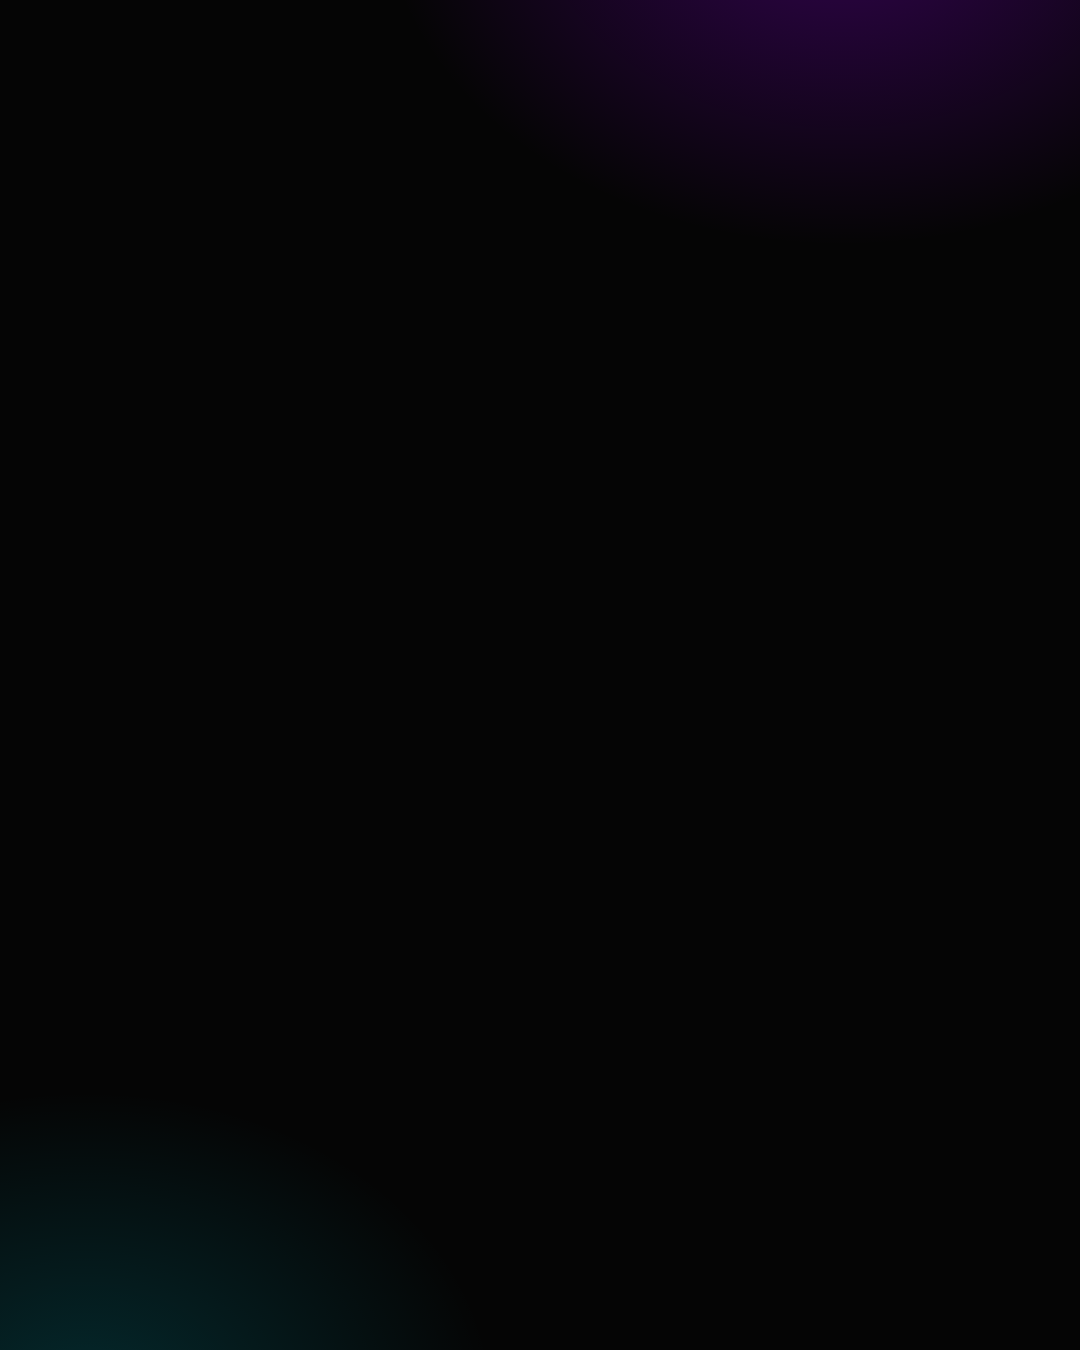
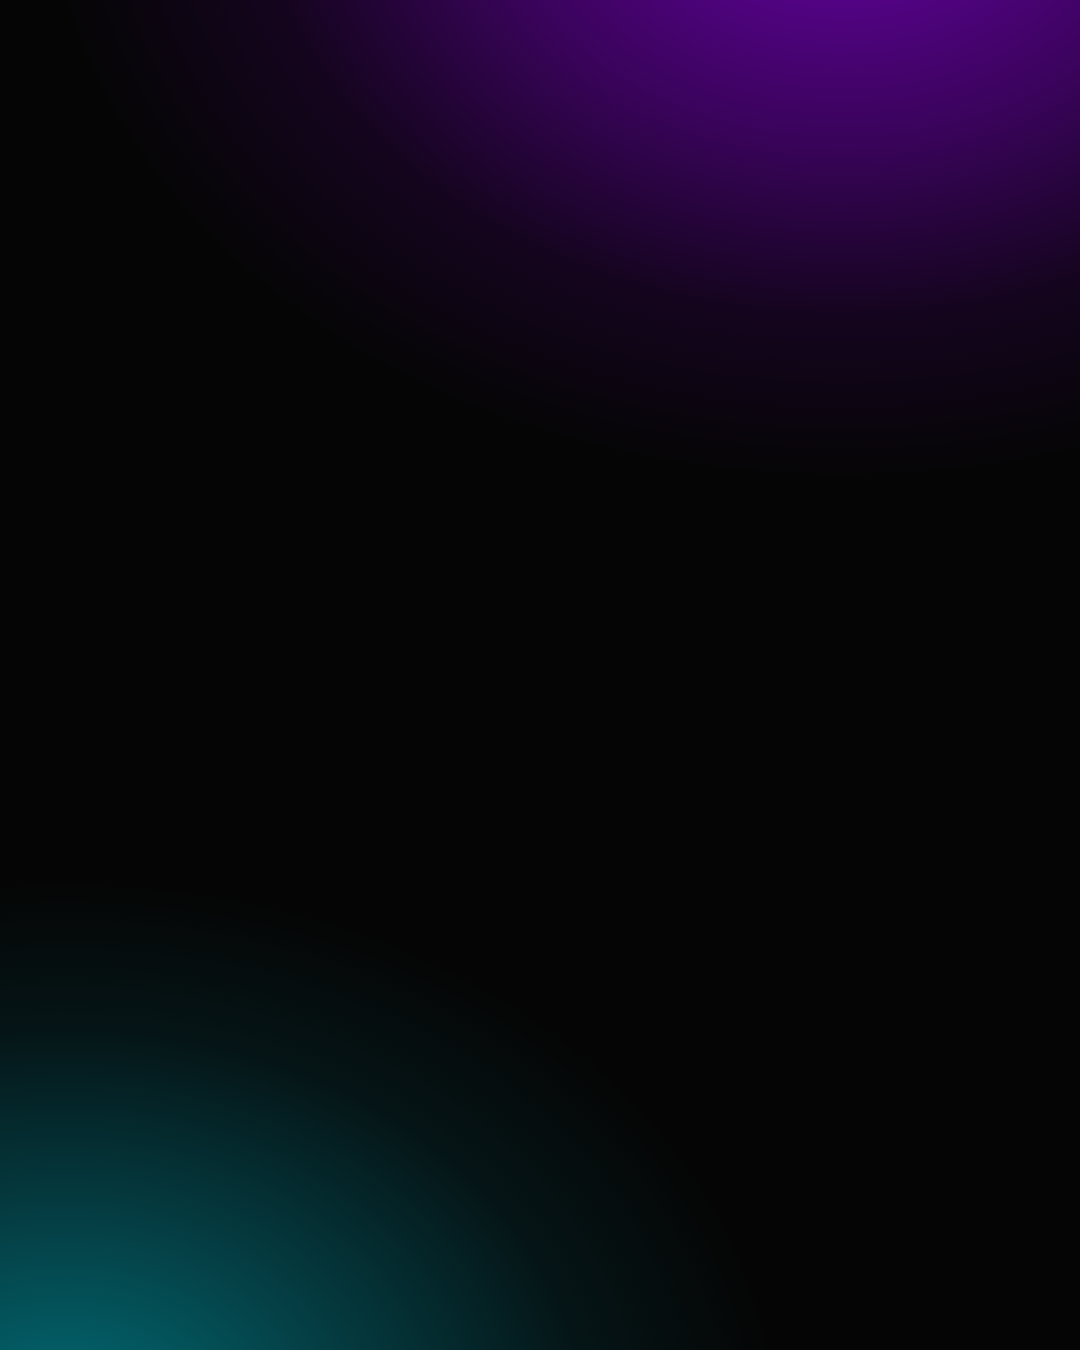
Subir la intensidad de los resplandores en los fondos sueltos
En Canva no se veian. Medido: el pixel mas brillante del fondo llegaba a
(37,4,57) sobre 255, un 14% de luminosidad. Sobre el editor claro y en
miniatura eso se lee como negro plano.

El motivo es que una placa con titulares le da al ojo una referencia —el
blanco del texto marca el maximo y el brillo se percibe por comparacion—
y un fondo solo no tiene con que comparar. La misma intensidad que ahi
alcanza, aca desaparece. Ahora el pico es (82,3,131).

La caida pasa de dos paradas de color a cuatro. Con una sola transicion
al transparente cada mancha cortaba con un arco marcado y se leia como
mancha; con la caida larga se lee como iluminacion.

Las placas con texto quedan igual: la regla fuerte vive en
.placa.fondo::before y no las alcanza.

Changed region(s): [[0.2444, 0.0, 1.0, 0.2489], [0.0, 0.7778, 0.5194, 1.0]]

diff --git a/publicaciones/posts.css b/publicaciones/posts.css
@@ -68,6 +68,31 @@ html, body {
 /* Fondo solo, sin contenido: para llevarlo a Canva y maquetar encima. */
 .placa.fondo { padding: 0; }
 
+/* Los resplandores del fondo van MUCHO mas fuertes que los de las placas
+   con texto, y no es un descuido.
+
+   En una placa con titulares el ojo tiene referencias: el blanco del texto
+   marca el maximo y por comparacion se percibe el brillo. Solo, sin nada
+   que comparar, el pico de la version suave llegaba a (37,4,57) sobre 255
+   —un 14% de luminosidad— y sobre el editor claro de Canva, en miniatura,
+   no se veia nada: lo leias como negro plano.
+
+   Tambien se agrandan los radios: una mancha chica y fuerte se lee como
+   mancha, una grande y fuerte se lee como iluminacion. */
+.placa.fondo::before {
+    background:
+        radial-gradient(88% 54% at 78% -10%,
+            rgba(158, 0, 255, .66) 0%,
+            rgba(158, 0, 255, .34) 38%,
+            rgba(158, 0, 255, .10) 62%,
+            transparent 85%),
+        radial-gradient(78% 48% at 6% 106%,
+            rgba(0, 232, 255, .46) 0%,
+            rgba(0, 232, 255, .22) 38%,
+            rgba(0, 232, 255, .07) 62%,
+            transparent 85%);
+}
+
 /* Todo el contenido va encima del resplandor. */
 .placa > * { position: relative; z-index: 1; }
 

diff --git a/README.md b/README.md
@@ -535,6 +535,24 @@ El tamaño sale del nombre del archivo: si termina en `-1080x1920`, se
 exporta con esa medida. Para un lienzo nuevo, se copia uno de los dos y se
 le cambia el nombre.
 
+### Los fondos llevan el resplandor más fuerte que las placas
+
+No es un descuido, es a propósito. En una placa con titulares el ojo tiene
+referencias: el blanco del texto marca el máximo y el brillo se percibe por
+comparación. Un fondo solo no tiene con qué comparar.
+
+Con la intensidad de las placas, el píxel más brillante del fondo llegaba a
+`(37, 4, 57)` sobre 255 — un 14 % de luminosidad. Sobre el editor claro de
+Canva y en miniatura se leía como negro plano: los resplandores
+directamente no se veían. Ahora el pico es `(82, 3, 131)`.
+
+> La caída lleva cuatro paradas de color en vez de dos. Con una sola
+> transición al transparente, cada mancha cortaba con un arco marcado y se
+> leía como mancha; con la caída larga se lee como iluminación.
+
+**Las placas con texto no se tocaron:** la regla más fuerte vive en
+`.placa.fondo::before` y solo aplica a los fondos.
+
 `guia-contenido-instagram.xlsx` es para trabajar **fuera** de este repo: tiene
 las ideas de publicaciones con el formato sugerido (post único, carrusel o
 reel), los colores y tamaños exactos de cada elemento, y las reglas de
